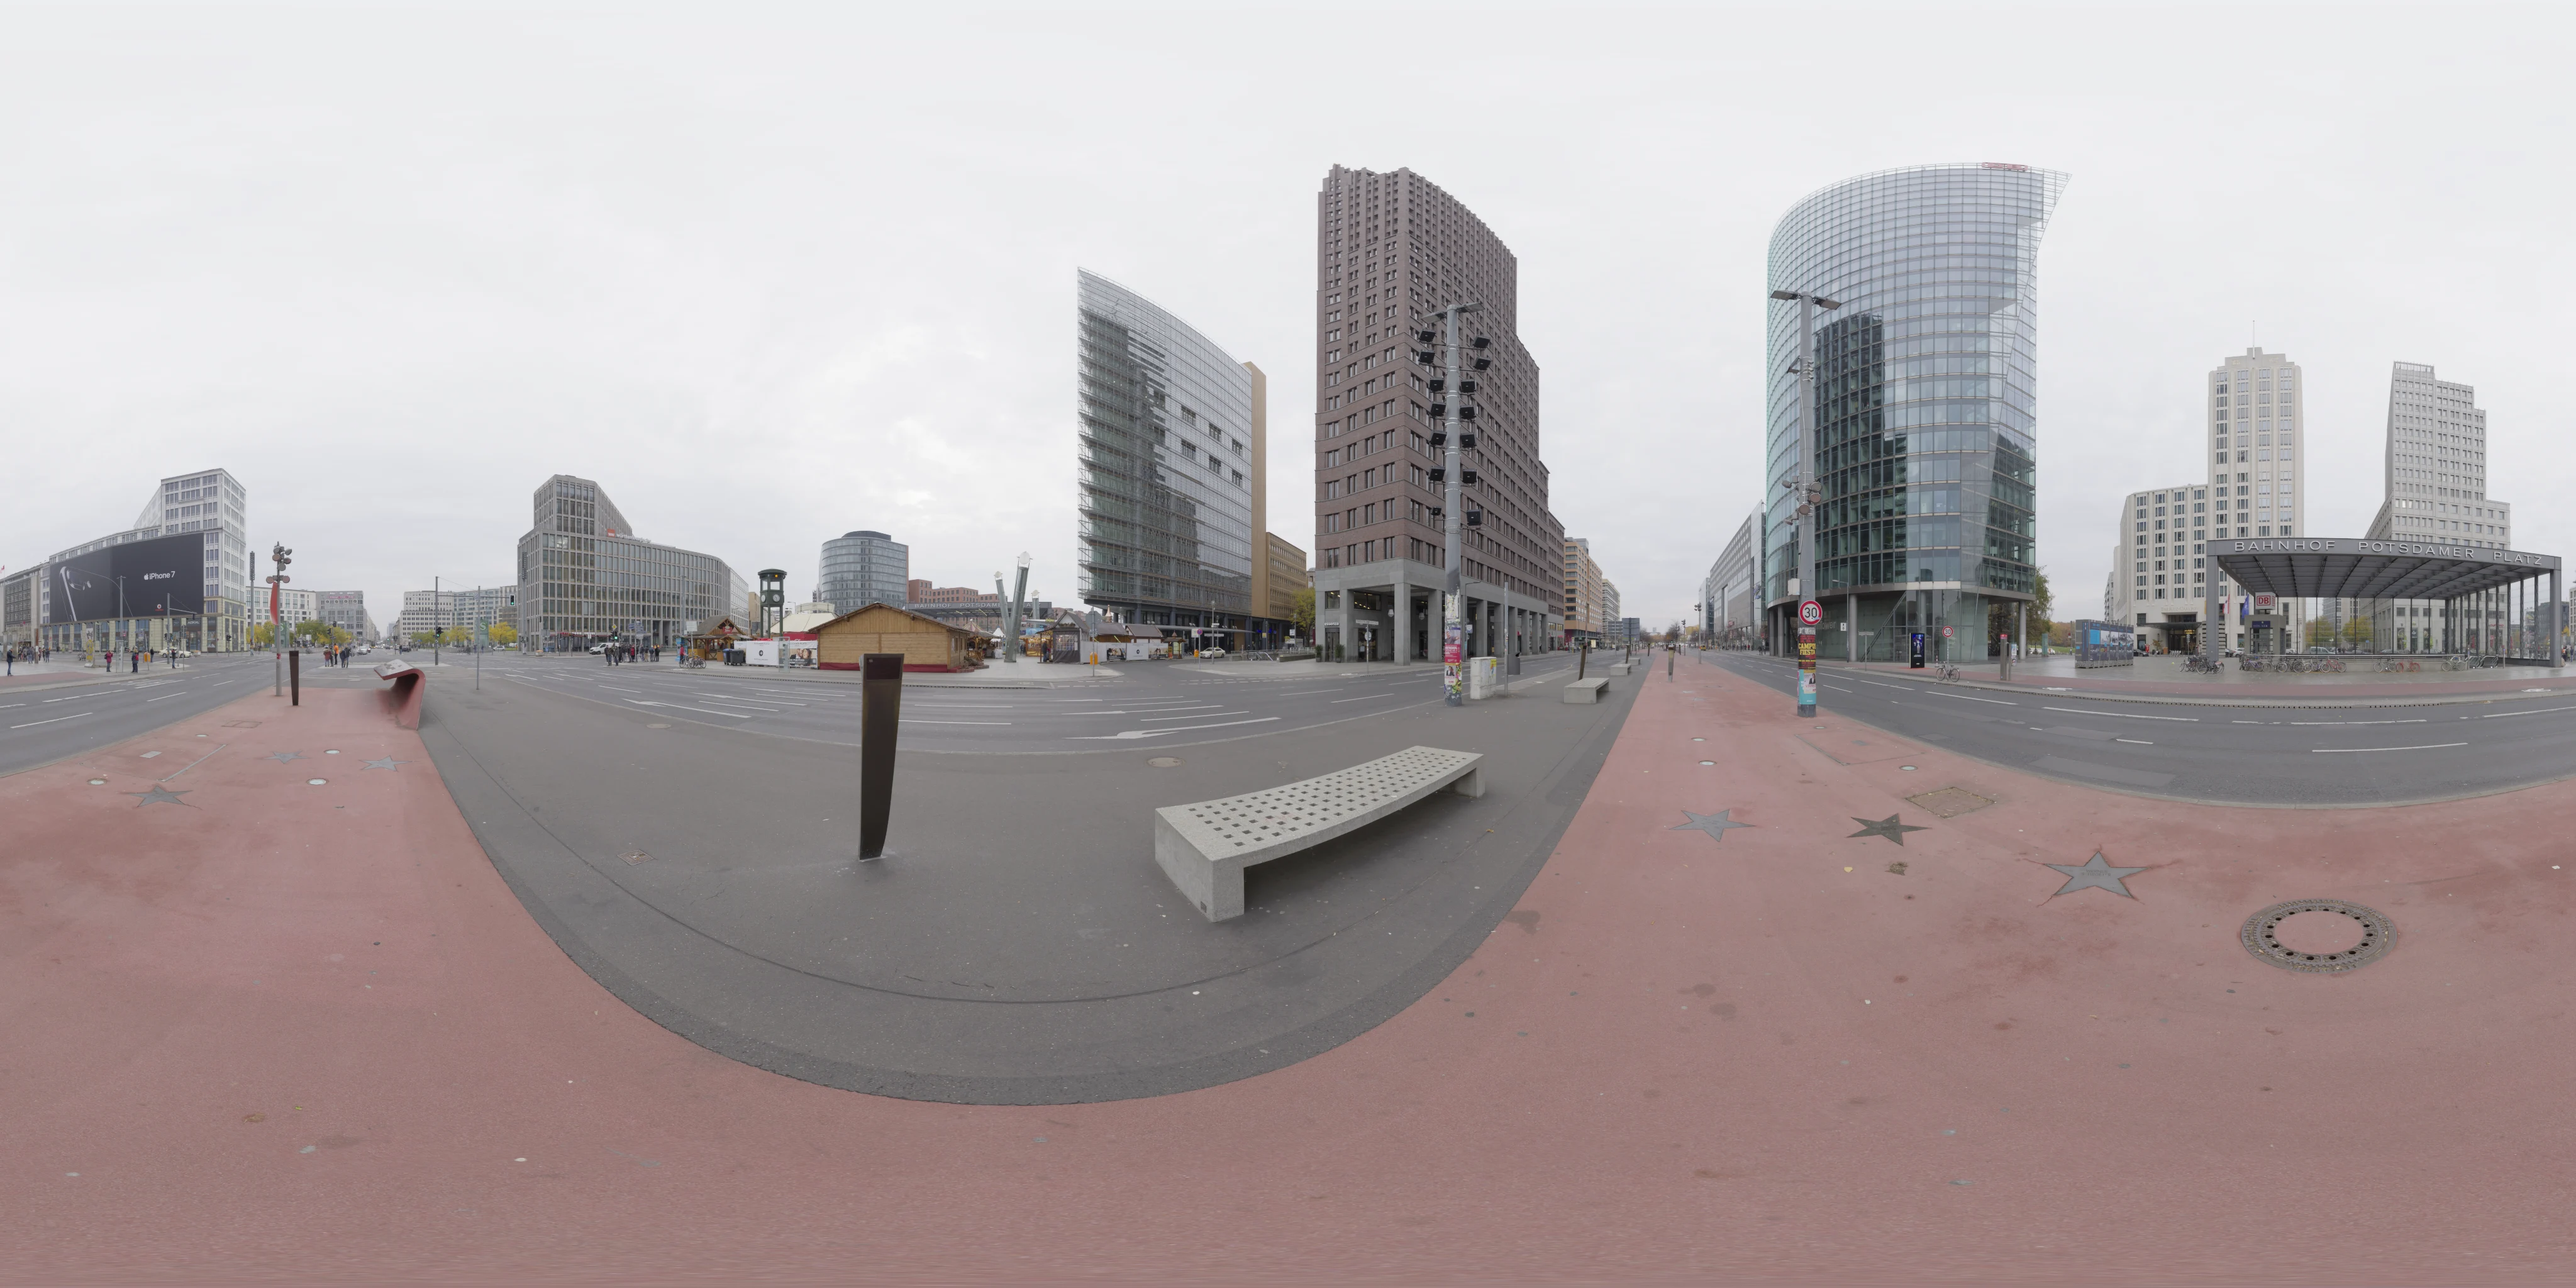
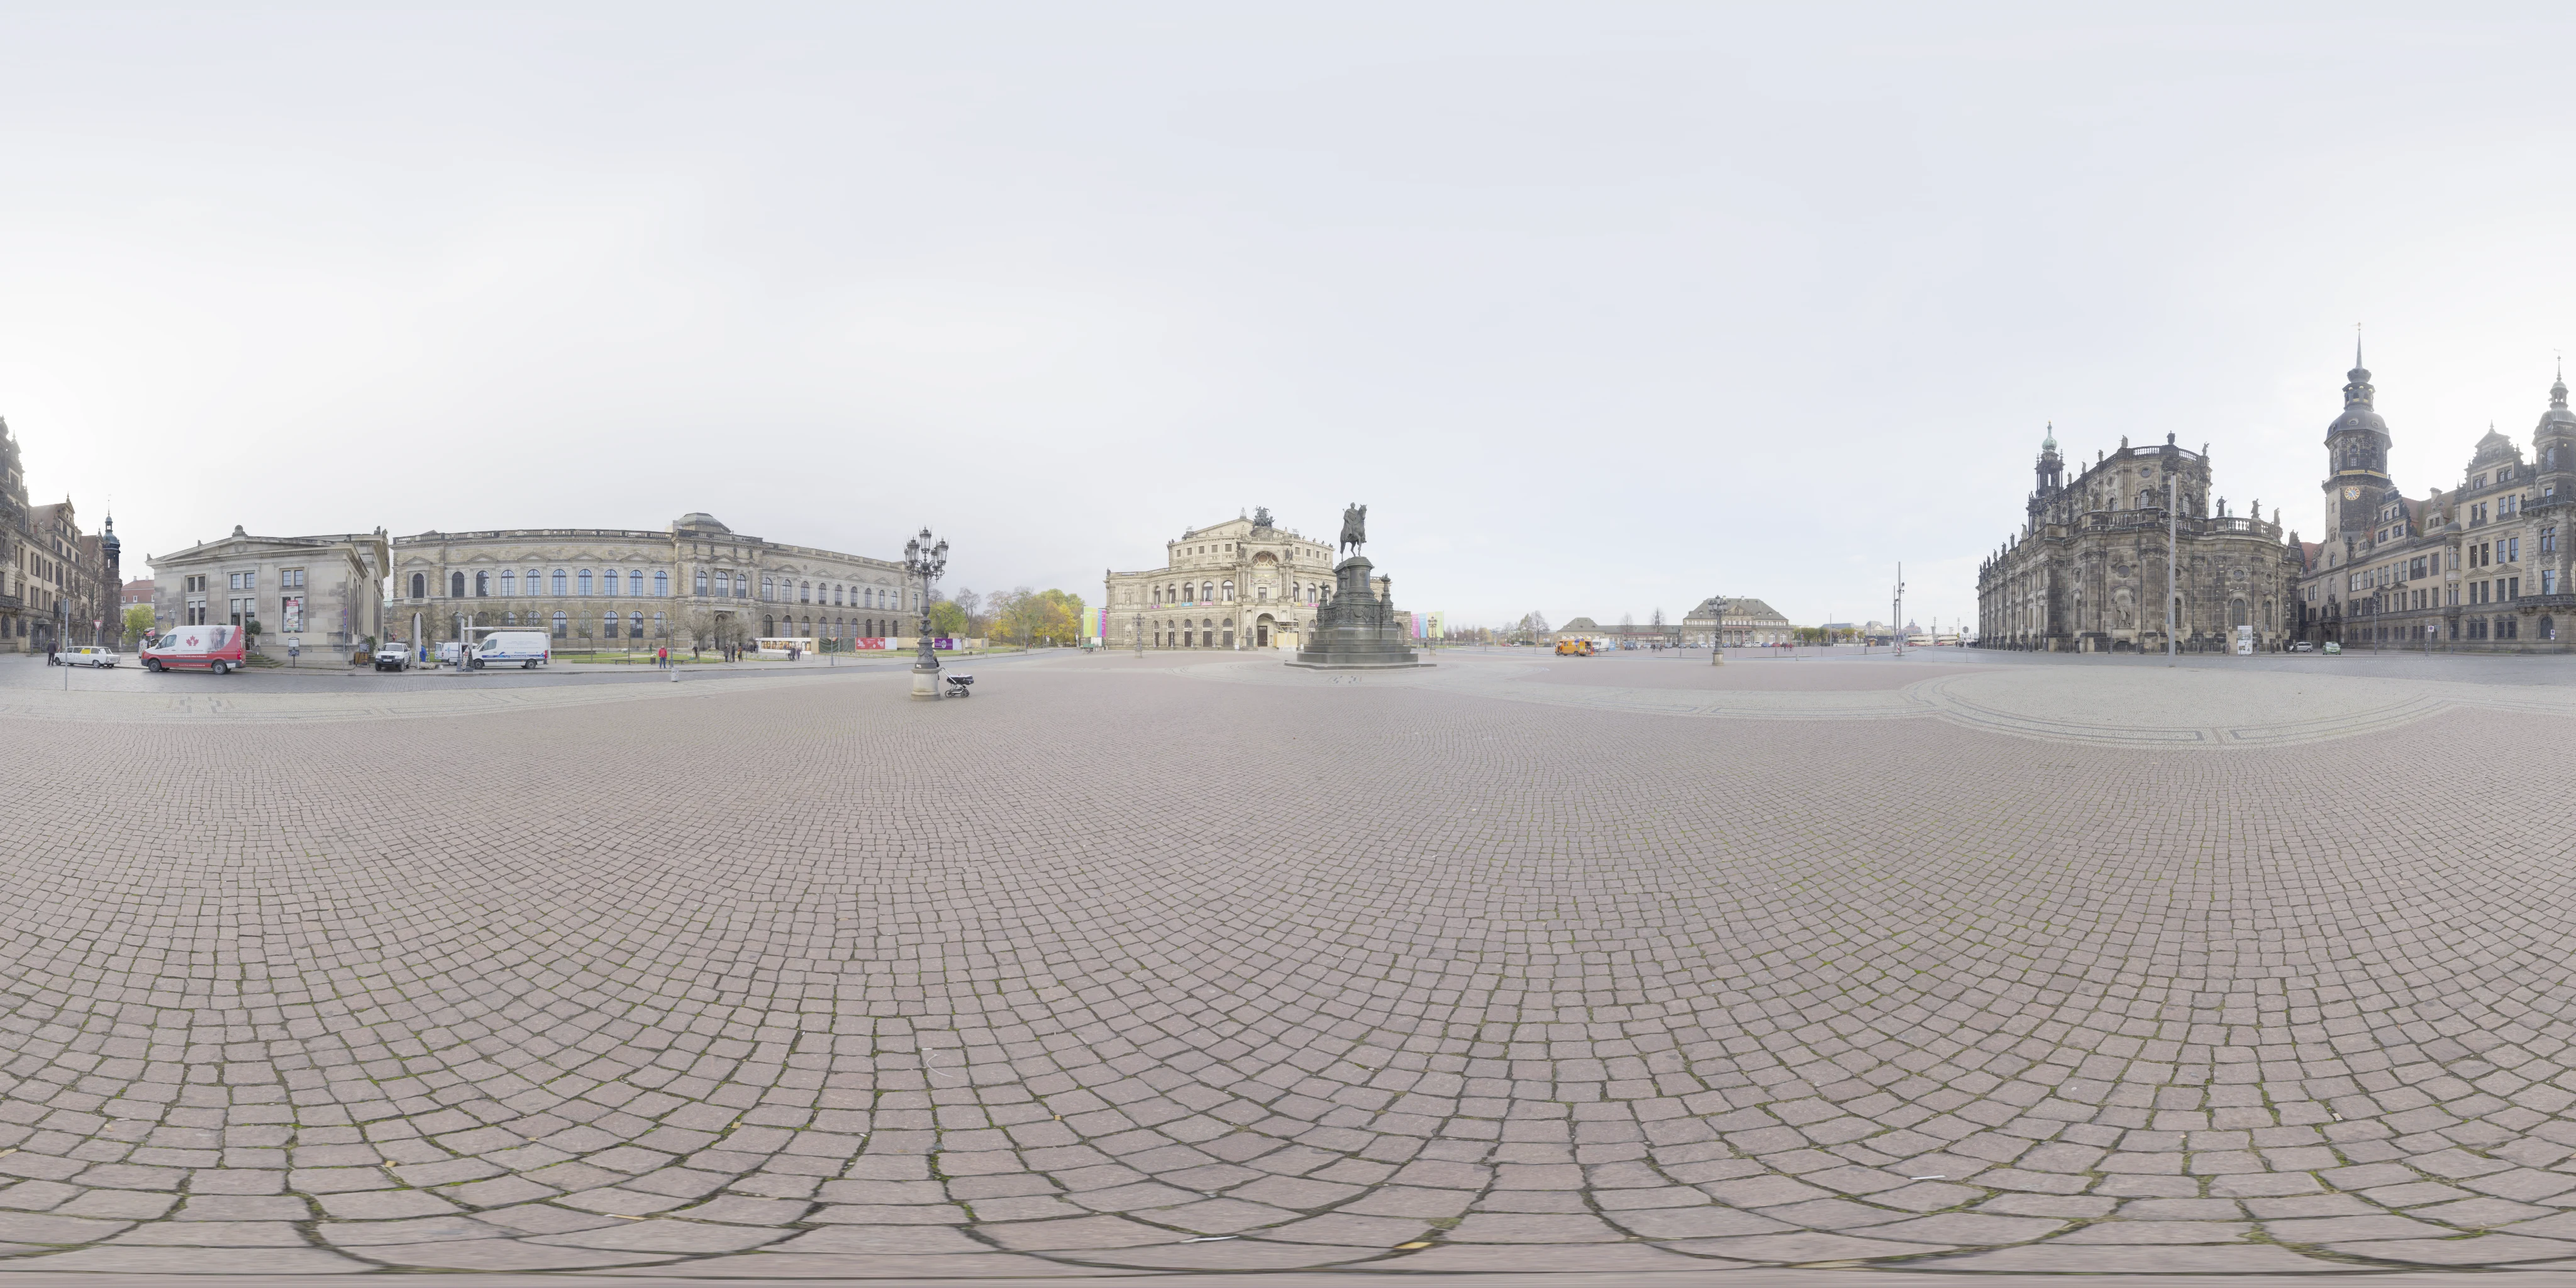
按真实骨段驱动怪兽双臂并统一城市广场透视

diff --git a/ui/src/games/ultraman/monsters.ts b/ui/src/games/ultraman/monsters.ts
@@ -83,6 +83,8 @@ interface MonsterRig {
   foreL: THREE.Bone | null
   foreR: THREE.Bone | null
   jaw: THREE.Bone | null
+  handL: THREE.Bone | null
+  handR: THREE.Bone | null
   clawL: THREE.Bone | null
   clawR: THREE.Bone | null
   thighL: THREE.Bone | null
@@ -113,6 +115,12 @@ export class KaijuController {
   public currentZ = -6
   private recoilSide = 0
   public hitFlash = 0
+  private readonly upperDirection = new THREE.Vector3()
+  private readonly foreDirection = new THREE.Vector3()
+  private readonly restDirection = new THREE.Vector3()
+  private readonly shoulderPoint = new THREE.Vector3()
+  private readonly parentInverse = new THREE.Matrix4()
+  private readonly alignment = new THREE.Quaternion()
   private stepPhase = 0
   private patrolPhase = 0
   private modelHeight = 17
@@ -205,6 +213,8 @@ export class KaijuController {
       foreL: pick('L_UDE', 'ひじ.L', '腕3.L', '腕2.L'),
       foreR: pick('R_UDE', 'ひじ.R', '腕3.R', '腕2.R'),
       jaw: pick('jaw', 'lowerjaw'),
+      handL: pick('L_TE', '手首.L'),
+      handR: pick('R_TE', '手首.R'),
       clawL: pick('L_TUME', 'pincer.L'),
       clawR: pick('R_TUME', 'pincer.R'),
       thighL: pick('L_MOMO', 'L_Thigh', '足.L'),
@@ -407,68 +417,9 @@ export class KaijuController {
       if (this.rig.clawL) this.rig.clawL.rotation.z += pincers * 0.55
       if (this.rig.clawR) this.rig.clawR.rotation.z -= pincers * 0.55
 
-      // 消除 MMD 默认平举 T-Pose：让双臂自然放下并略微前伸成战斗格斗架势
-      // 巴尔坦、杰顿、机械哥莫拉为人形双臂 T-Pose；加坦杰厄双钳原本水平张开更具压迫感只需微调
-      const isHumanoidTpose =
-        this.spec.id === 'baltan' ||
-        this.spec.id === 'zetton' ||
-        this.spec.id === 'gomora-mecha'
-      const baseDrop = isHumanoidTpose ? 0.92 : 0.12
-      const baseForward = isHumanoidTpose ? 0.32 : 0.08
-      const baseElbowBend = isHumanoidTpose ? 0.42 : 0.1
-
-      if (this.rig.armL) {
-        this.rig.armL.rotation.z -= baseDrop
-        this.rig.armL.rotation.x += baseForward
-      }
-      if (this.rig.armR) {
-        this.rig.armR.rotation.z += baseDrop
-        this.rig.armR.rotation.x += baseForward
-      }
-      if (this.rig.foreL) {
-        this.rig.foreL.rotation.x -= baseElbowBend
-      }
-      if (this.rig.foreR) {
-        this.rig.foreR.rotation.x -= baseElbowBend
-      }
-
-      if (this.state === 'roaring' || this.state === 'guarding' || this.state === 'staggered') {
-        const open = this.state === 'roaring'
-        const broken = this.state === 'staggered'
-        const pose = Math.min(1, this.stateTime * 7)
-        if (this.rig.head) this.rig.head.rotation.x += (open ? -0.5 : 0.32) * pose
-        if (this.rig.armL) this.rig.armL.rotation.z += (open || broken ? 0.9 : -0.42) * pose
-        if (this.rig.armR) this.rig.armR.rotation.z -= (open || broken ? 0.9 : -0.42) * pose
-        if (this.rig.foreL) this.rig.foreL.rotation.x -= (open ? 0.1 : 0.85) * pose
-        if (this.rig.foreR) this.rig.foreR.rotation.x -= (open ? 0.1 : 0.85) * pose
-      } else if (this.state === 'windup') {
-        const p = Math.min(1, this.stateTime / WINDUP_TIME)
-        if (this.rig.armL) {
-          this.rig.armL.rotation.z += p * (this.currentAttack === 'melee' ? 1.5 : 0.65)
-          this.rig.armL.rotation.x -= p * 0.65
-        }
-        if (this.rig.armR) {
-          this.rig.armR.rotation.z -= p * (this.currentAttack === 'melee' ? 0.2 : 0.65)
-          this.rig.armR.rotation.x -= p * 0.65
-        }
-      } else if (this.state === 'attack') {
-        const p = Math.sin(Math.min(1, this.stateTime / 0.65) * Math.PI)
-        if (this.rig.armL) {
-          this.rig.armL.rotation.x += p * 0.95
-          this.rig.armL.rotation.z += p * 0.35
-        }
-        if (this.rig.armR) {
-          this.rig.armR.rotation.x += p * 0.95
-          this.rig.armR.rotation.z -= p * 0.35
-        }
-      } else if (this.state === 'hit') {
-        const p = Math.sin(Math.min(1, this.stateTime / 0.38) * Math.PI)
-        if (this.rig.armL) this.rig.armL.rotation.z += p * 0.65
-        if (this.rig.armR) this.rig.armR.rotation.z -= p * 0.65
-      } else {
-        if (this.rig.armL) this.rig.armL.rotation.z += breath * 0.1
-        if (this.rig.armR) this.rig.armR.rotation.z -= breath * 0.1
-      }
+      // 从肩、肘、腕真实位置求出骨段方向，各套模型的本地旋转轴并不相同。
+      this.poseArm(this.rig.armL, this.rig.foreL, this.rig.handL, 1, breath)
+      this.poseArm(this.rig.armR, this.rig.foreR, this.rig.handR, -1, breath)
 
       // 尾巴与加坦杰厄触手柔性波动
       this.rig.tail.forEach((b, idx) => {
@@ -482,4 +433,46 @@ export class KaijuController {
 
     this.root.updateMatrixWorld(true)
   }
+  private poseArm(arm: THREE.Bone | null, fore: THREE.Bone | null, hand: THREE.Bone | null, side: number, breath: number) {
+    if (!arm || !fore || !hand) return
+    const upper = this.upperDirection.set(side * 0.58, -0.74, 0.32)
+    const lower = this.foreDirection.set(-side * 0.22, 0.35 + breath * 0.10, 0.96)
+    if (this.state === 'guarding') {
+      upper.set(side * 0.37, -0.45, 0.82)
+      lower.set(-side * 0.6, 0.8, 0.15)
+    } else if (this.state === 'windup') {
+      const p = Math.min(1, this.stateTime / WINDUP_TIME)
+      if (this.currentAttack !== 'melee' || side > 0) {
+        upper.y += p * 0.8
+        upper.z -= p * 0.75
+        lower.y += p * 0.65
+      }
+    } else if (this.state === 'attack') {
+      const p = Math.sin(Math.min(1, this.stateTime / 0.65) * Math.PI)
+      if (this.currentAttack !== 'melee' || side > 0) {
+        upper.set(side * (0.58 - p * 0.46), -0.74 + p * 0.87, 0.32 + p)
+        lower.set(-side * 0.12, 0.35 * (1 - p), 1)
+      }
+    } else if (this.state === 'roaring') {
+      const p = Math.sin(Math.PI * this.stateTime / 1.1)
+      upper.y += p * 1.35
+      lower.set(side * 0.6, 0.86, 0.35)
+    } else if (this.state === 'staggered' || this.state === 'dying') {
+      lower.set(side * 0.28, -0.8, 0.37)
+    }
+    this.aimSegment(arm, fore, upper)
+    this.aimSegment(fore, hand, lower)
+  }
+
+  private aimSegment(bone: THREE.Bone, tip: THREE.Bone, direction: THREE.Vector3) {
+    const parent = bone.parent!
+    bone.getWorldPosition(this.shoulderPoint)
+    tip.getWorldPosition(this.restDirection).sub(this.shoulderPoint)
+    if (this.restDirection.lengthSq() < 1e-8) return
+    this.parentInverse.copy(parent.matrixWorld).invert()
+    this.restDirection.transformDirection(this.parentInverse)
+    direction.transformDirection(this.root.matrixWorld).transformDirection(this.parentInverse)
+    bone.quaternion.premultiply(this.alignment.setFromUnitVectors(this.restDirection, direction))
+  }
+
 }

diff --git a/ui/src/games/ultraman/environment.ts b/ui/src/games/ultraman/environment.ts
@@ -5,7 +5,7 @@ import type { ConcreteSceneTheme } from './types'
 const ASSETS = '/models/ultraman/landscape'
 const STAGES = {
   seaside: { heading: 0.48, light: 0xffedcf, power: 2.0, sun: [0.8, 0.72, -0.28], dust: 0xaba498 },
-  city: { heading: 0.64, light: 0xe7efff, power: 1.2, sun: [-0.55, 0.9, 0.46], dust: 0xa29991 },
+  city: { heading: 0.92, light: 0xe7efff, power: 1.2, sun: [-0.55, 0.9, 0.46], dust: 0xa29991 },
   mountain: { heading: 0.52, light: 0xfff1d2, power: 2.1, sun: [0.53, 1, -0.68], dust: 0x978864 },
   volcano: {
     heading: 0.65,
@@ -76,7 +76,7 @@ export class ArenaManager {
   }
 
   private async load(theme: ConcreteSceneTheme, revision: number) {
-    const surface = theme === 'volcano' ? 'basalt' : theme === 'mountain' ? null : 'pavement'
+    const surface = theme === 'volcano' ? 'basalt' : theme === 'seaside' ? 'pavement' : null
     const names = surface ? [theme, surface, surface + '-normal'] : [theme]
     const results = await Promise.allSettled(
       names.map((name) => this.loader.loadAsync(`${ASSETS}/${name}.webp`)),
@@ -117,15 +117,14 @@ export class ArenaManager {
     this.sun.color.setHex(config.light)
     this.sun.intensity = config.power
     this.sun.position.fromArray(config.sun).normalize().multiplyScalar(65)
-    this.contact.visible = theme === 'mountain'
+    this.contact.visible = theme === 'mountain' || theme === 'city'
     if (theme === 'volcano') this.buildCrater(maps[1]!, maps[2]!)
-    else if (theme !== 'mountain') this.buildPavement(theme, maps[1]!, maps[2]!)
+    else if (theme === 'seaside') this.buildQuay(maps[1]!, maps[2]!)
   }
 
-  private buildPavement(theme: 'seaside' | 'city', map: THREE.Texture, normal: THREE.Texture) {
-    const quay = theme === 'seaside'
-    const width = quay ? 150 : 24
-    const length = quay ? 106 : 160
+  private buildQuay(map: THREE.Texture, normal: THREE.Texture) {
+    const width = 150
+    const length = 106
     for (const tex of [map, normal]) {
       tex.wrapS = tex.wrapT = THREE.RepeatWrapping
       tex.repeat.set(width / 4, length / 4)
@@ -137,52 +136,37 @@ export class ArenaManager {
       normalMap: normal,
       normalScale: new THREE.Vector2(0.55, 0.55),
       roughness: 0.88,
-      color: quay ? 0xcac3b8 : 0x95999b,
+      color: 0xcac3b8,
     })
     const geometry = new THREE.PlaneGeometry(width, length)
     geometry.rotateX(-Math.PI / 2)
     this.ground = new THREE.Mesh(geometry, surface)
-    this.ground.position.z = quay ? 8 : -10
+    this.ground.position.z = 8
     this.ground.receiveShadow = true
     this.root.add(this.ground)
 
-    if (quay) {
-      const metal = new THREE.MeshStandardMaterial({
-        color: 0x5d5650,
-        metalness: 0.6,
-        roughness: 0.65,
-      })
-      const post = new THREE.LatheGeometry(
-        [
-          new THREE.Vector2(0.64, 0),
-          new THREE.Vector2(0.64, 0.13),
-          new THREE.Vector2(0.34, 0.18),
-          new THREE.Vector2(0.31, 0.72),
-          new THREE.Vector2(0.46, 0.78),
-          new THREE.Vector2(0.46, 0.87),
-          new THREE.Vector2(0, 0.91),
-        ],
-        16,
-      )
-      const bollards = new THREE.InstancedMesh(post, metal, 13)
-      for (let i = 0; i < 13; i++)
-        bollards.setMatrixAt(i, new THREE.Matrix4().makeTranslation((i - 6) * 11, 0, -44))
-      bollards.castShadow = true
-      this.fixtures.add(bollards)
-    } else {
-      const paint = new THREE.MeshStandardMaterial({ color: 0xcec9b9, roughness: 0.96 })
-      const marks = new THREE.InstancedMesh(
-        new THREE.PlaneGeometry(0.15, 3).rotateX(-Math.PI / 2),
-        paint,
-        40,
-      )
-      for (let i = 0; i < 40; i++)
-        marks.setMatrixAt(
-          i,
-          new THREE.Matrix4().makeTranslation(i % 2 ? 4 : -4, 0.013, -84 + Math.floor(i / 2) * 8),
-        )
-      this.fixtures.add(marks)
-    }
+    const metal = new THREE.MeshStandardMaterial({
+      color: 0x5d5650,
+      metalness: 0.6,
+      roughness: 0.65,
+    })
+    const post = new THREE.LatheGeometry(
+      [
+        new THREE.Vector2(0.64, 0),
+        new THREE.Vector2(0.64, 0.13),
+        new THREE.Vector2(0.34, 0.18),
+        new THREE.Vector2(0.31, 0.72),
+        new THREE.Vector2(0.46, 0.78),
+        new THREE.Vector2(0.46, 0.87),
+        new THREE.Vector2(0, 0.91),
+      ],
+      16,
+    )
+    const bollards = new THREE.InstancedMesh(post, metal, 13)
+    for (let i = 0; i < 13; i++)
+      bollards.setMatrixAt(i, new THREE.Matrix4().makeTranslation((i - 6) * 11, 0, -44))
+    bollards.castShadow = true
+    this.fixtures.add(bollards)
   }
 
   /** 实体火山口围住平坦战斗区，岩面凹处的两条熔流沿坡脚延伸。 */

diff --git a/ui/public/models/ultraman/CREDITS.md b/ui/public/models/ultraman/CREDITS.md
@@ -12,7 +12,7 @@
 战场使用 Poly Haven 的 CC0 实景全景与地表扫描素材，已转换为随游戏分发的 WebP。
 
 - 海港采用 [Simon's Town Harbour](https://polyhaven.com/a/simons_town_harbour)。
-- 都市采用 [Potsdamer Platz](https://polyhaven.com/a/potsdamer_platz)。
+- 都市采用 [Dresden Square](https://polyhaven.com/a/dresden_square)。
 - 山区采用 [Alps Field](https://polyhaven.com/a/alps_field)。
 - 火山口的远景取自 [Quarry 01](https://polyhaven.com/a/quarry_01)，岩壁使用 [Aerial Rocks 02](https://polyhaven.com/a/aerial_rocks_02) 的颜色与法线纹理。地形、熔流与光照由游戏绘制。
-- 码头和城市道路的近景铺装采用 [Asphalt 04](https://polyhaven.com/a/asphalt_04)。
+- 码头的近景铺装采用 [Asphalt 04](https://polyhaven.com/a/asphalt_04)。
